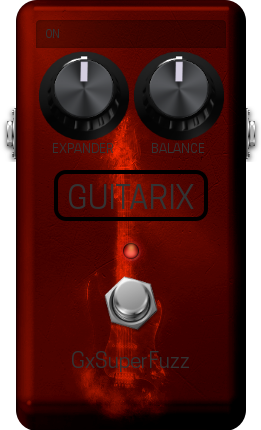
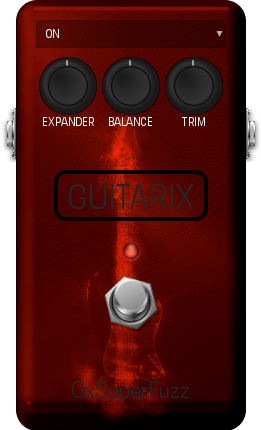
* reworked MOD UI

diff --git a/MOD/modgui/stylesheet-gxsuperfuzz.css b/MOD/modgui/stylesheet-gxsuperfuzz.css
@@ -91,7 +91,7 @@
     position:absolute;
     right:30px;
     text-align:center;
-    top:340px;
+    top:370px;
 }
 
 .mod-pedal-boxy{{{cns}}} .mod-plugin-name h1 {
@@ -572,6 +572,9 @@
 .mod-pedal-boxy{{{cns}}}.mod-boxy100.mod-tribal2 {
     background-image:url(/resources/pedals/boxy100/tribal2.png{{{ns}}});
 }
+.mod-pedal-boxy{{{cns}}}.mod-vintage {
+    background-image:url(/resources/pedals/boxy/vintage.png{{{ns}}});
+}
 .mod-pedal-boxy{{{cns}}}.mod-purple {
     background-image:url(/resources/pedals/boxy/purple.png{{{ns}}});
 }
@@ -917,11 +920,38 @@
 .mod-pedal-boxy{{{cns}}}.mod-boxy100.mod-green {
     background-image:url(/resources/pedals/boxy100/green.png{{{ns}}});
 }
+.mod-pedal-boxy{{{cns}}}.mod-saturator {
+    background-image:url(/resources/pedals/boxy/saturator.png{{{ns}}});
+}
+.mod-pedal-boxy{{{cns}}}.mod-stb {
+    background-image:url(/resources/pedals/boxy/stb.png{{{ns}}});
+}
+.mod-pedal-boxy{{{cns}}}.mod-boxy75.mod-stb {
+    background-image:url(/resources/pedals/boxy75/stb.png{{{ns}}});
+}
+}
+.mod-pedal-boxy{{{cns}}}.mod-voodoo {
+    background-image:url(/resources/pedals/boxy/voodoo.png{{{ns}}});
+}
+.mod-pedal-boxy{{{cns}}}.mod-boxy75.mod-voodoo {
+    background-image:url(/resources/pedals/boxy75/voodoo.png{{{ns}}});
+}
+.mod-pedal-boxy{{{cns}}}.mod-hyperion {
+    background-image:url(/resources/pedals/boxy/hyperion.png{{{ns}}});
+}
+.mod-pedal-boxy{{{cns}}}.mod-tonemachine {
+    background-image:url(/resources/pedals/boxy/tonemachine.png{{{ns}}});
+}
+.mod-pedal-boxy{{{cns}}}.mod-boxy75.mod-tonemachine {
+    background-image:url(/resources/pedals/boxy75/tonemachine.png{{{ns}}});
+}
 
 
 /* = COLORS - Color of the pedals labels
 ================================================ */
 .mod-pedal-boxy{{{cns}}}.mod-tribal2 .mod-enumerated,
+.mod-pedal-boxy{{{cns}}}.mod-vintage .mod-enumerated,
+.mod-pedal-boxy{{{cns}}}.mod-sufu .mod-enumerated,
 .mod-pedal-boxy{{{cns}}}.mod-purple .mod-enumerated,
 .mod-pedal-boxy{{{cns}}}.mod-lava .mod-enumerated,
 .mod-pedal-boxy{{{cns}}}.mod-black .mod-enumerated,
@@ -938,6 +968,10 @@
 .mod-pedal-boxy{{{cns}}}.mod-darkblue .mod-enumerated,
 .mod-pedal-boxy{{{cns}}}.mod-warning .mod-enumerated,
 .mod-pedal-boxy{{{cns}}}.mod-green .mod-enumerated
+.mod-pedal-boxy{{{cns}}}.mod-saturator .mod-enumerated
+.mod-pedal-boxy{{{cns}}}.mod-stb .mod-enumerated
+.mod-pedal-boxy{{{cns}}}.mod-hyperion .mod-enumerated
+.mod-pedal-boxy{{{cns}}}.mod-tonemachine .mod-enumerated
 {
     background-image:url(/resources/utils/dropdown-arrow-white.png{{{ns}}});
 }
@@ -1008,9 +1042,33 @@
 .mod-pedal-boxy{{{cns}}}.mod-warning .mod-control-group .mod-knob > span.mod-knob-title,
 .mod-pedal-boxy{{{cns}}}.mod-green h1,
 .mod-pedal-boxy{{{cns}}}.mod-green .mod-enumerated,
-.mod-pedal-boxy{{{cns}}}.mod-green .mod-control-group .mod-knob > span.mod-knob-title
+.mod-pedal-boxy{{{cns}}}.mod-green .mod-control-group .mod-knob > span.mod-knob-title,
+.mod-pedal-boxy{{{cns}}}.mod-vintage h1,
+.mod-pedal-boxy{{{cns}}}.mod-vintage .mod-enumerated,
+.mod-pedal-boxy{{{cns}}}.mod-vintage .mod-control-group .mod-knob > span.mod-knob-title,
+.mod-pedal-boxy{{{cns}}}.mod-saturator h1,
+.mod-pedal-boxy{{{cns}}}.mod-saturator .mod-enumerated,
+.mod-pedal-boxy{{{cns}}}.mod-saturator .mod-control-group .mod-knob > span.mod-knob-title,
+.mod-pedal-boxy{{{cns}}}.mod-stb h1,
+.mod-pedal-boxy{{{cns}}}.mod-stb .mod-enumerated,
+.mod-pedal-boxy{{{cns}}}.mod-stb .mod-control-group .mod-knob > span.mod-knob-title,
+.mod-pedal-boxy{{{cns}}}.mod-voodoo h1,
+.mod-pedal-boxy{{{cns}}}.mod-voodoo .mod-enumerated,
+.mod-pedal-boxy{{{cns}}}.mod-voodoo .mod-control-group .mod-knob > span.mod-knob-title,
+.mod-pedal-boxy{{{cns}}}.mod-hyperion h1,
+.mod-pedal-boxy{{{cns}}}.mod-hyperion .mod-enumerated,
+.mod-pedal-boxy{{{cns}}}.mod-hyperion .mod-control-group .mod-knob > span.mod-knob-title,
+.mod-pedal-boxy{{{cns}}}.mod-tonemachine h1,
+.mod-pedal-boxy{{{cns}}}.mod-tonemachine .mod-enumerated,
+.mod-pedal-boxy{{{cns}}}.mod-tonemachine .mod-control-group .mod-knob > span.mod-knob-title,
+.mod-pedal-boxy{{{cns}}}.mod-sufu .mod-enumerated,
+.mod-pedal-boxy{{{cns}}}.mod-sufu .mod-control-group .mod-knob > span.mod-knob-title
 {
     color:white;
+}
+.mod-pedal-boxy{{{cns}}}.mod-sufu h1
+{
+    color:#262626 ;
 }
 .mod-pedal-boxy{{{cns}}}.mod-gold h1,
 .mod-pedal-boxy{{{cns}}}.mod-gold .mod-enumerated,
@@ -1121,4 +1179,6 @@
     background-image:url(/resources/knobs/boxy/black.png{{{ns}}});
 }.mod-pedal-boxy{{{cns}}} .mod-control-group.mod-green .mod-knob .mod-knob-image {
     background-image:url(/resources/knobs/boxy/green.png{{{ns}}});
+}.mod-pedal-boxy{{{cns}}} .mod-control-group.mod-cairo .mod-knob .mod-knob-image {
+    background-image:url(/resources/knobs/boxy/cairo.png{{{ns}}});
 }

diff --git a/MOD/modgui/icon-gxsuperfuzz.html b/MOD/modgui/icon-gxsuperfuzz.html
@@ -1,4 +1,4 @@
-<div class="mod-pedal mod-pedal-boxy{{{cns}}} mod-two-knobs mod-{{color}} {{color}}">
+<div class="mod-pedal mod-pedal-boxy{{{cns}}} mod-three-knobs mod-{{color}} {{color}}">
     <div mod-role="drag-handle" class="mod-drag-handle"></div>
     <div class="mod-plugin-brand"><h1>{{brand}}</h1></div>
     <div class="mod-plugin-name"><h1>{{label}}</h1></div>
@@ -28,6 +28,12 @@
             <span class="mod-knob-title">{{name}}</span>
         </div>
         {{/controls.2}}
+        {{#controls.3}}
+        <div class="mod-knob" title="{{comment}}">
+            <div class="mod-knob-image" mod-role="input-control-port" mod-port-symbol="{{symbol}}"></div>
+            <span class="mod-knob-title">{{name}}</span>
+        </div>
+        {{/controls.3}}
     </div>
     <div class="mod-footswitch" mod-role="bypass"></div>
     <div class="mod-pedal-input">
